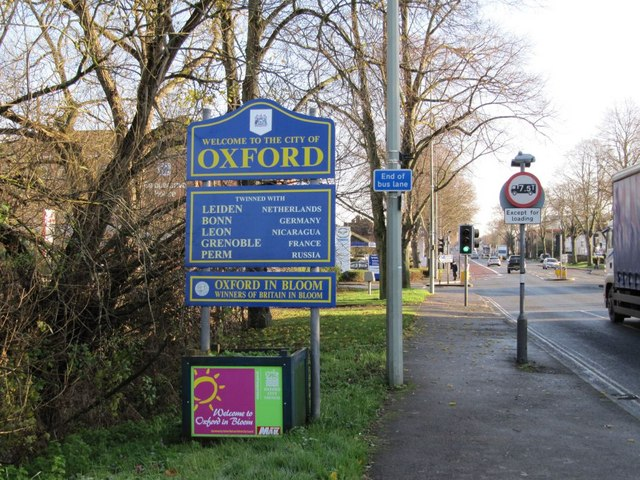
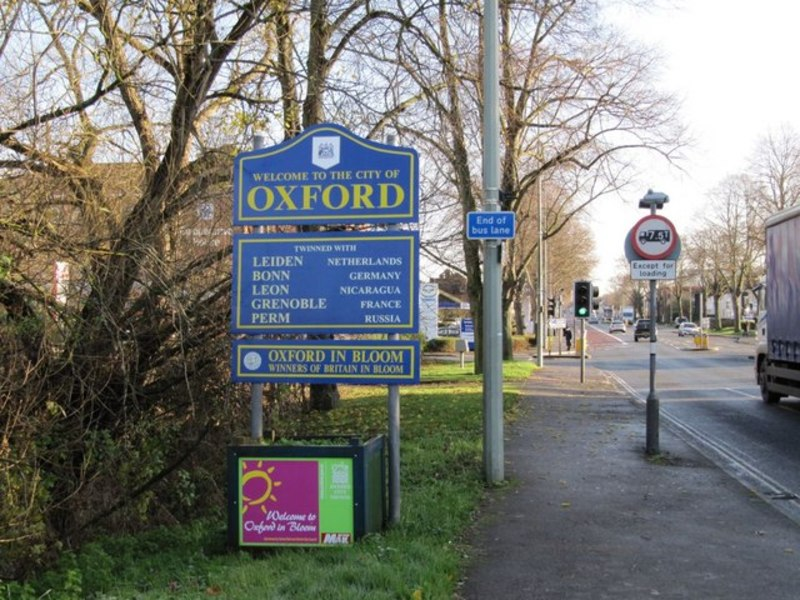
Compress images

diff --git a/README.md b/README.md
@@ -4,3 +4,7 @@ To run the program locally on your laptop:
 cd <gd.github.io/>
 jekyll serve
 http://0.0.0.0:4000
+
+To batch compress images to 800 pixels wide:
+convert "*.JPG[800x]" -set filename:base "%[base]" "compressed_images/%[filename:base].jpg"
+
